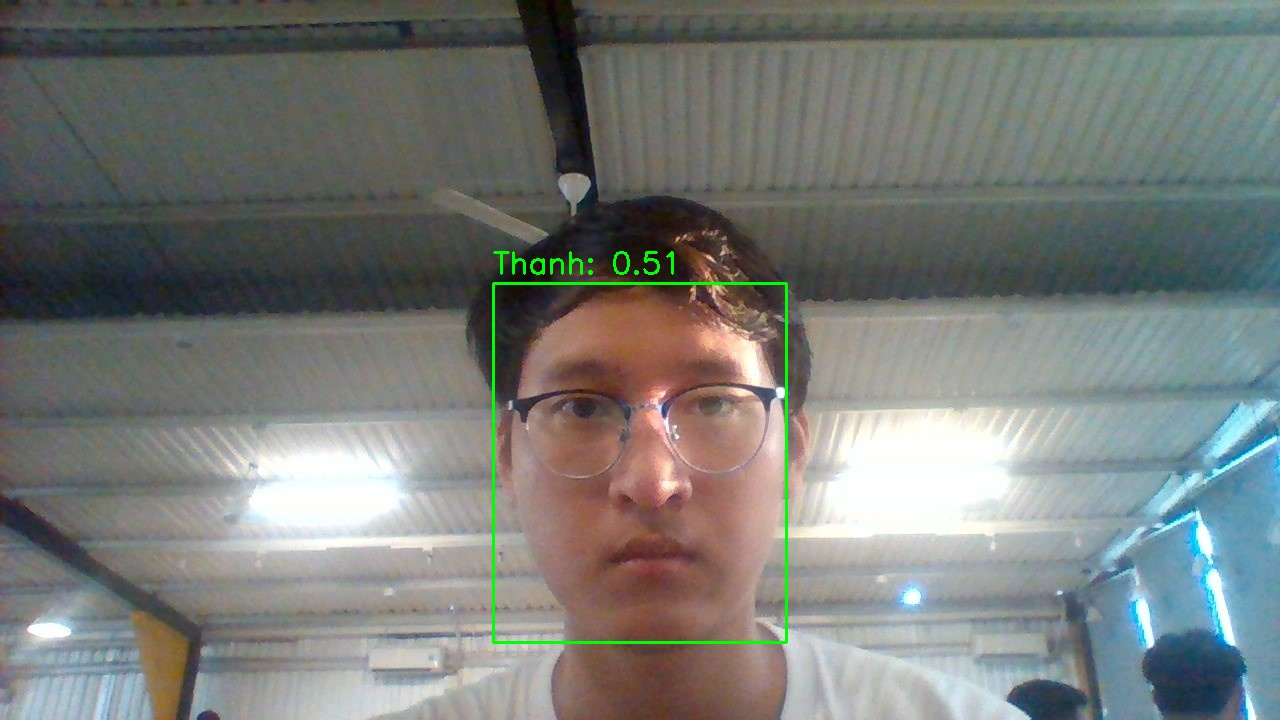
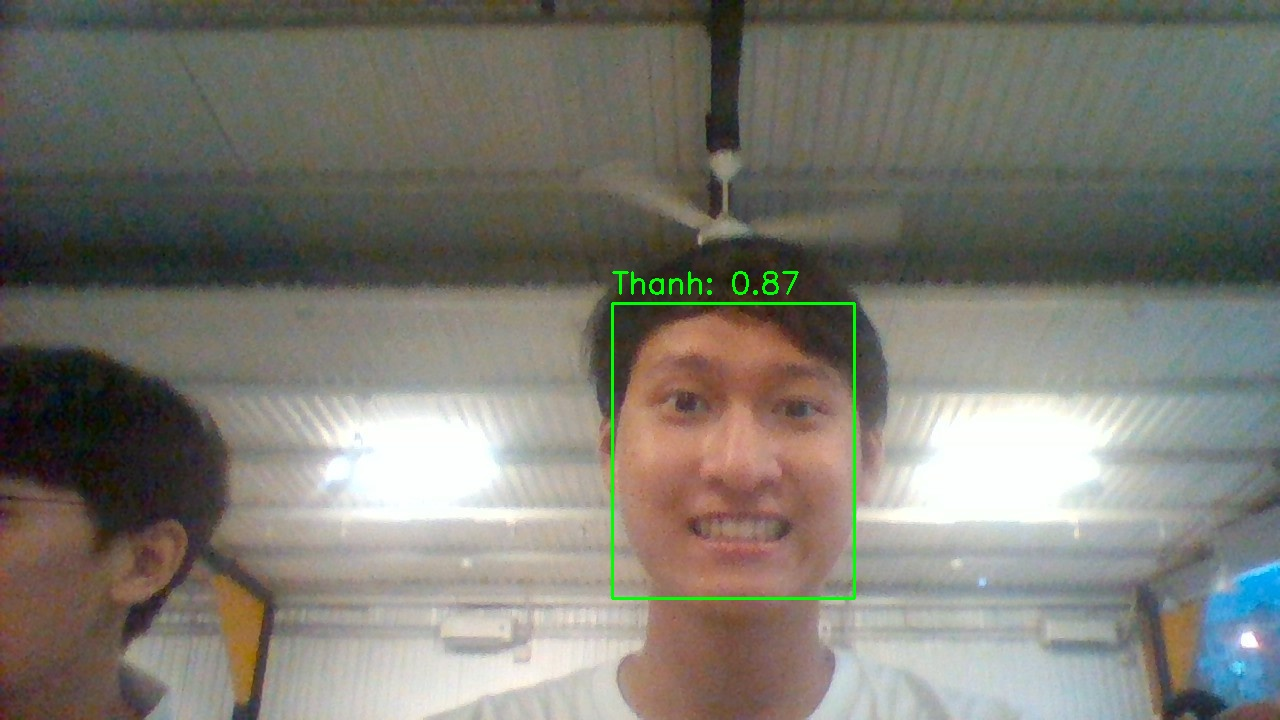
abc

diff --git a/src/CaptureFace.py b/src/CaptureFace.py
@@ -1,0 +1,34 @@
+import cv2
+from facenet_pytorch import MTCNN
+import torch
+from datetime import datetime
+import os
+
+
+class CaptureFace:
+    def __init__(self):
+        self.device = torch.device('cuda:0' if torch.cuda.is_available() else 'cpu')
+        self.mtcnn = MTCNN(margin=20, keep_all=False, post_process=False, device=self.device)
+
+    def capture_face(self, dir_dataset, dir_images):
+        count = 50
+        usr_name = input("Input ur name: ")
+        USR_PATH = os.path.join(dir_images, usr_name)
+        leap = 1
+
+        cap = cv2.VideoCapture(0)
+        cap.set(cv2.CAP_PROP_FRAME_WIDTH, 640)
+        cap.set(cv2.CAP_PROP_FRAME_HEIGHT, 480)
+        while cap.isOpened() and count:
+            isSuccess, frame = cap.read()
+            if self.mtcnn(frame) is not None and leap % 2:
+                path = str(USR_PATH + '/{}.jpg'.format(
+                    str(datetime.now())[:-7].replace(":", "-").replace(" ", "-") + str(count)))
+                face_img = self.mtcnn(frame, save_path=path)
+                count -= 1
+            leap += 1
+            cv2.imshow('Face Capturing', frame)
+            if cv2.waitKey(1) & 0xFF == 27:
+                break
+        cap.release()
+        cv2.destroyAllWindows()

diff --git a/demo.py b/demo.py
@@ -11,7 +11,7 @@ if __name__ == '__main__':
 
     my_system = face_recognition_system(dataset_path, image_folder)
 
-    demo_img = 'demo_imgs/demo5.jpg'
-    my_system.recognize_face_via_image(demo_img)
+    demo_img = 'demo_imgs/demo6.jpg'
+    # my_system.recognize_face_via_image(demo_img)
 
-    # my_system.recognize_face_via_camera()
+    my_system.recognize_face_via_camera()
